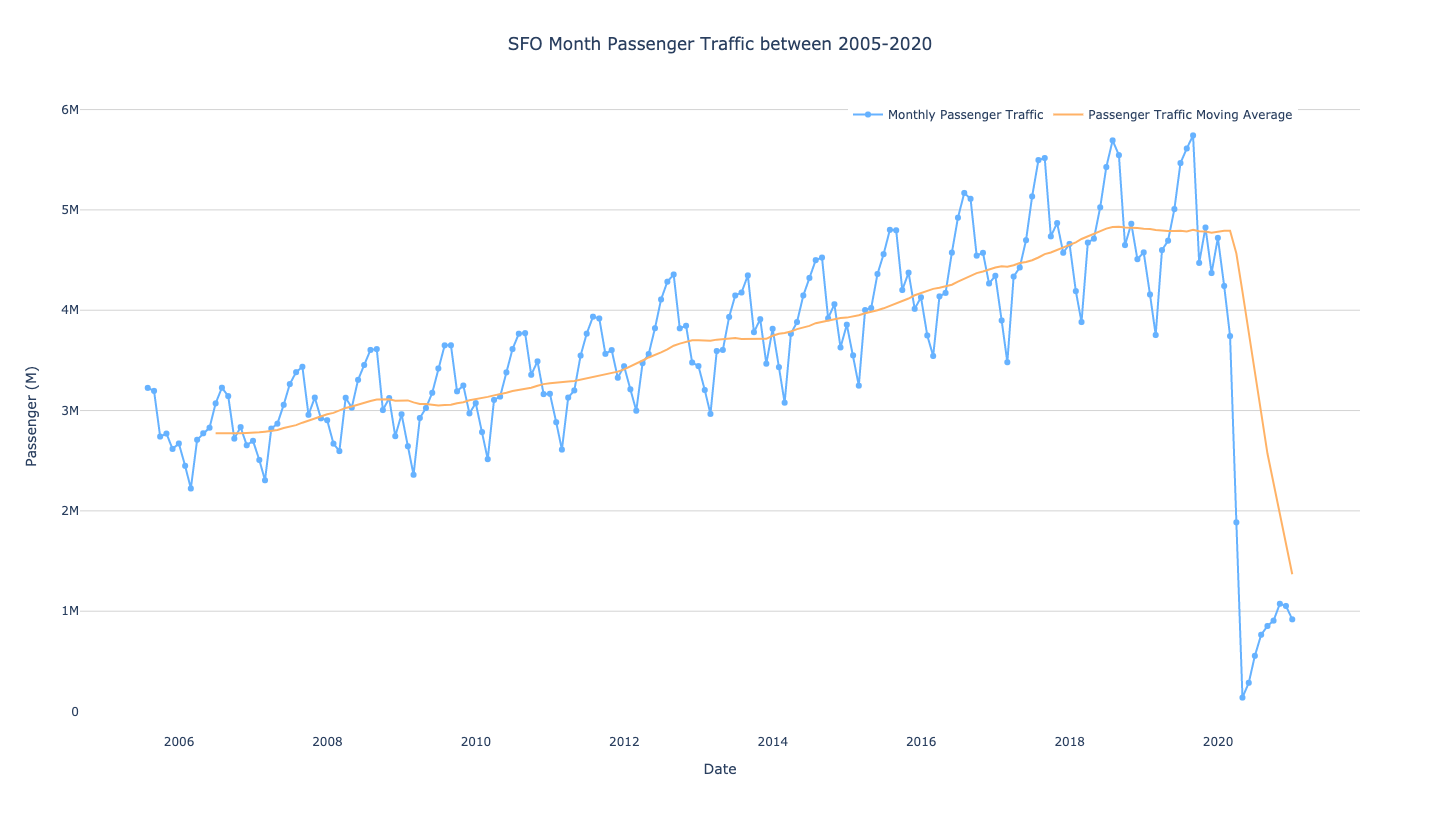
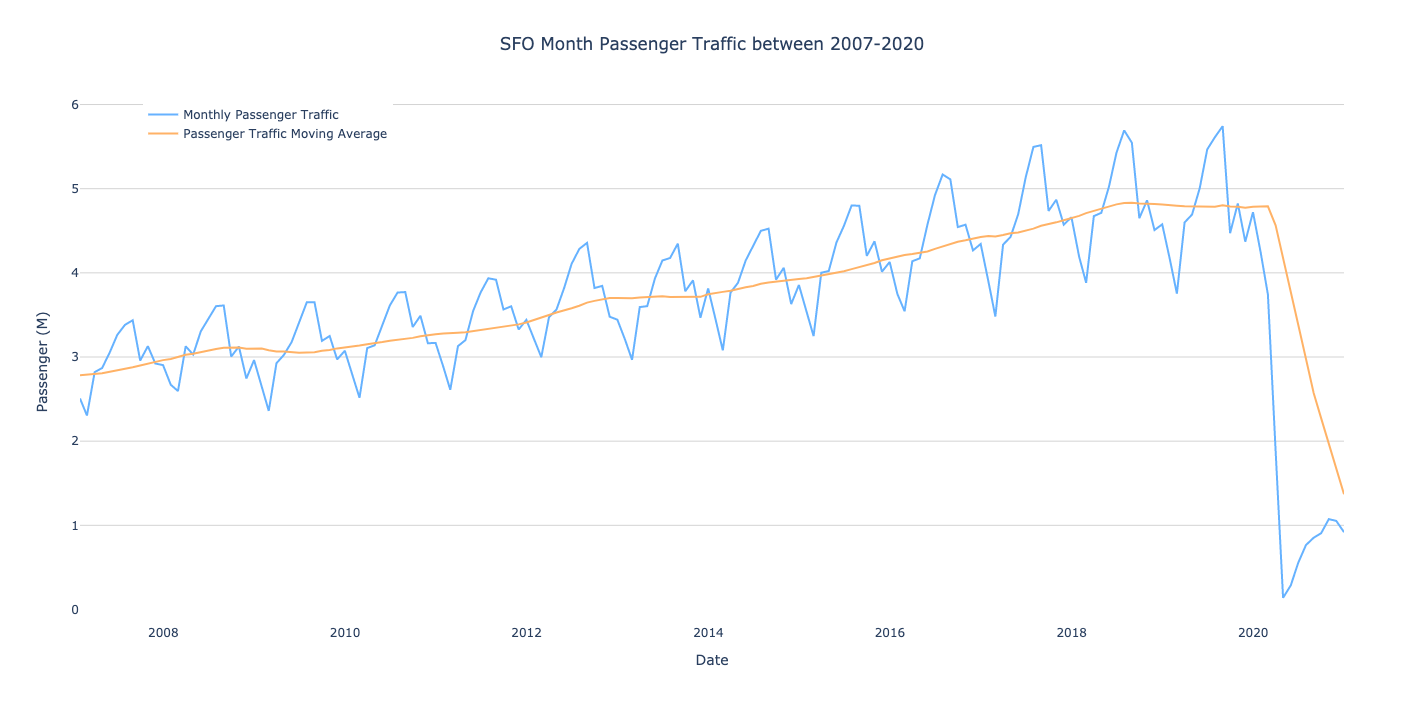
Improve Visualization
Remove markers on line charts

diff --git a/Part2/viz_recoverypath.py b/Part2/viz_recoverypath.py
@@ -1,0 +1,46 @@
+import pandas as pd
+import plotly
+import plotly.graph_objs as go
+from plotly.offline import *
+
+
+# To initiate ploty to run offline
+init_notebook_mode(connected=True)
+# Use monthly data
+df = pd.read_csv('../Data/sfo2020pax_month.csv')
+df['date'] = pd.to_datetime(df['date'], format='%Y-%m-%d')
+index_base = df[df['date']=='2008-12-31']['pax_count'].tolist()[0]
+df['index'] = df['pax_count']/index_base*100
+df = df[(df.date>='2008-12-31') & (df.date<='2013-12-31')]
+
+# Change the date range to string and replace years with Year 1-4
+def date2str(row):
+	month = row['date'].strftime('%b')
+	if row.row_index == 0: 
+		year = 0
+	elif month == 12: 
+		year = int((row.row_index)/12)
+	else: 
+		year = int((row.row_index)/12)+1
+	return f'{month} Year {year}'
+df['row_index'] = range(len(df))
+df['date_str'] = df.apply(lambda row: date2str(row), axis=1)
+
+# Create graph
+## Prepare Graph
+data = []
+data.append(go.Scatter(x=df['date_str'], y=df['index'],
+              mode='lines', name='Monthly Passenger Traffic Index',
+              line=dict(color='rgb(102,178,255)')))
+
+## Prepare layout
+layout = dict(title={'text':'SFO Month Passenger Traffic Recovery Path',
+                     'x':0.5},
+	          xaxis=dict(title='Period', dtick=6), 
+	          yaxis=dict(title='Index (Base: Jan 2009', gridcolor='lightgray'),
+	          legend=dict(x=0.6, y=1, orientation='h'),
+	          plot_bgcolor='rgba(0,0,0,0)')
+
+# Plot and fix layout
+fig = go.Figure(data=data, layout=layout)
+plotly.offline.plot(fig, filename='recovery_path.html')

diff --git a/Part2/EDA/NormalizeAnnualPax2020_Line.py b/Part2/EDA/NormalizeAnnualPax2020_Line.py
@@ -14,7 +14,7 @@ df['date'] = pd.to_datetime(df['date'], format='%Y-%m-%d')
 # Calculate moving average
 df['pax_count_ma'] = df.pax_count.rolling(12).mean()
 
-df = df[df.date>'2007-01-01']
+df = df[df.date>='2007-01-01']
 df_temp = df[df.date==df.date.min()]
 lowest_pax = df[df.date==df.date.min()]['pax_count'].tolist()[0]
 lowest_paxma = df[df.date==df.date.min()]['pax_count_ma'].tolist()[0]
@@ -23,7 +23,7 @@ lowest_paxma = df[df.date==df.date.min()]['pax_count_ma'].tolist()[0]
 ## Prepare Graph
 data = []
 data.append(go.Scatter(x=df['date'], y=(df['pax_count']/lowest_pax)*100,
-              mode='lines+markers', name='Monthly Passenger Traffic',
+              mode='lines', name='Monthly Passenger Traffic',
               line=dict(color='rgb(102,178,255)')))
 data.append(go.Scatter(x=df['date'], y=(df['pax_count_ma']/lowest_paxma)*100,
               mode='lines', name='Passenger Traffic Moving Average',
@@ -34,9 +34,9 @@ layout = dict(title={'text':'SFO Month Passenger Traffic between 2007-2020',
                      'x':0.5},
 	          xaxis=dict(title='Date'), 
 	          yaxis=dict(title='Index (Base: Jan, 2007)', gridcolor='lightgray'),
-	          legend=dict(x=0.6, y=1, orientation='h'),
+	          legend=dict(x=0.05, y=1),
 	          plot_bgcolor='rgba(0,0,0,0)')
 
 # Plot and fix layout
 fig = go.Figure(data=data, layout=layout)
-plotly.offline.plot(fig, filename='annualpax2020_line.html')
+plotly.offline.plot(fig, filename='normalize_annualpax2020_line.html')

diff --git a/Part2/EDA/AnnualPax2020_Line.py b/Part2/EDA/AnnualPax2020_Line.py
@@ -10,24 +10,28 @@ init_notebook_mode(connected=True)
 df = pd.read_csv('../../Data/sfo2020pax_month.csv')
 
 # Calculate moving average
+df['pax_count'] = df['pax_count']/1000000
 df['pax_count_ma'] = df.pax_count.rolling(12).mean()
+df['date'] = pd.to_datetime(df['date'], format='%Y-%m-%d')
+df['year'] = df['date'].dt.year
+df = df[df['year']>=2007]
 
 # Create graph
 ## Prepare Graph
 data = []
 data.append(go.Scatter(x=df['date'], y=df['pax_count'],
-              mode='lines+markers', name='Monthly Passenger Traffic',
+              mode='lines', name='Monthly Passenger Traffic',
               line=dict(color='rgb(102,178,255)')))
 data.append(go.Scatter(x=df['date'], y=df['pax_count_ma'],
               mode='lines', name='Passenger Traffic Moving Average',
               line=dict(color='rgb(255,178,102)')))
 
 ## Prepare layout
-layout = dict(title={'text':'SFO Month Passenger Traffic between 2005-2020',
+layout = dict(title={'text':'SFO Month Passenger Traffic between 2007-2020',
                      'x':0.5},
 	          xaxis=dict(title='Date'), 
 	          yaxis=dict(title='Passenger (M)', gridcolor='lightgray'),
-	          legend=dict(x=0.6, y=1, orientation='h'),
+	          legend=dict(x=0.05, y=1),
 	          plot_bgcolor='rgba(0,0,0,0)')
 
 # Plot and fix layout

diff --git a/Part2/prediction_step1.py b/Part2/prediction_step1.py
@@ -31,19 +31,19 @@ pred = pred[pred['ds']>='2020-12-31']
 
 # Plot Line chart
 data = []
-data.append(go.Scatter(x=X_train['ds'], y=X_train['y'],
-              mode='lines+markers', name='Historical Monthly Passenger Traffic',
+data.append(go.Scatter(x=X_train['ds'], y=X_train['y']/1000000,
+              mode='lines', name='Historical Monthly Passenger Traffic',
               line=dict(color='rgb(102,178,255)')))
-data.append(go.Scatter(x=pred['ds'],y=pred['y'],
-			  mode='lines+markers', name='Predicted Passenger Traffic',
+data.append(go.Scatter(x=pred['ds'],y=pred['y']/1000000,
+			  mode='lines', name='Predicted Passenger Traffic',
               	  line=dict(color='red')))
 
 ## Prepare layout
 layout = dict(title={'text':'SFO Month Passenger Traffic Prediction (Facebook Prophet)',
                      'x':0.5},
 	          xaxis=dict(title='Date'), 
-	          yaxis=dict(title='Passenger', gridcolor='lightgray'),
-	          legend=dict(x=0.6, y=1, orientation='h'),
+	          yaxis=dict(title='Passenger (M)', gridcolor='lightgray'),
+	          legend=dict(x=0.75, y=1),
 	          plot_bgcolor='rgba(0,0,0,0)')
 
 # Plot and fix layout

diff --git a/Part2/readme.md b/Part2/readme.md
@@ -69,6 +69,7 @@ Coming Soon...
 
 ### Step 4: Scaling the Previous Domestic and International Passenger Growth Path with Moving Average
 Coming Soon...
+<img src=Images/recovery_path_type.png>
 <img src=Images/prediction_step4.png>
 
 ### Step 5: Modified Step 4
